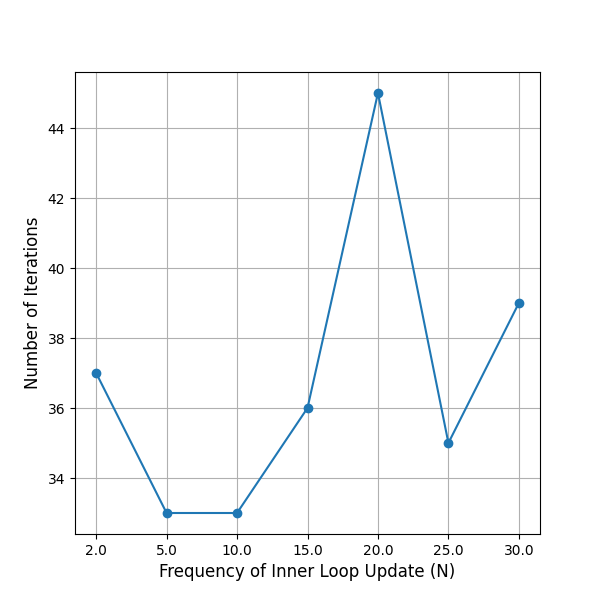
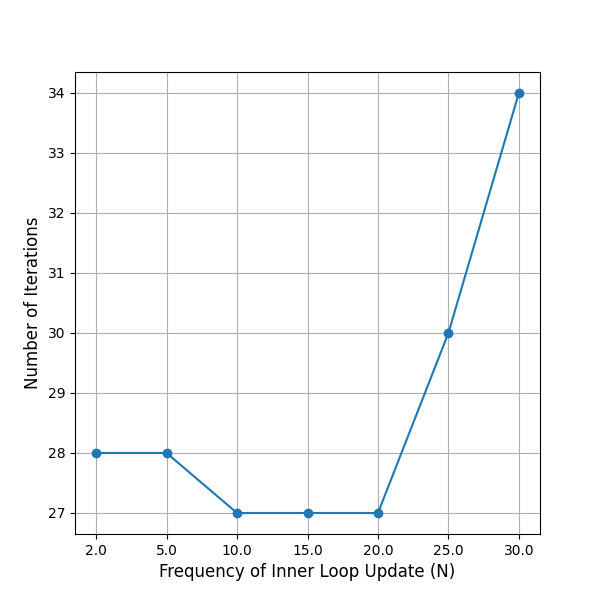
fixed the beta control methods to all optimize for market clearing error

diff --git a/ic/market.py b/ic/market.py
@@ -715,37 +715,39 @@ def run_market(initial_values, agent_settings, market_settings, bookkeeping, spa
         market_clearing.append(market_clearing_error)
 
         num_last_iterations = 20
+        threshold_decrease = 0.05
         if beta_adjustment_method == 'errorbased' and len(market_clearing) >= num_last_iterations:
             # here I am checking if the market is decreasing by 5% for the last n iterations
-            last_10_errors = market_clearing[-num_last_iterations:]  
-            reduction_rates = [(last_10_errors[i] - last_10_errors[i + 1]) / last_10_errors[i]
-                            for i in range(len(last_10_errors) - 1) if last_10_errors[i] != 0]  # Compute reduction rates
+            recent_errors = market_clearing[-num_last_iterations:]  
+            reduction_rates = [(recent_errors[i] - recent_errors[i + 1]) / recent_errors[i]
+                            for i in range(len(recent_errors) - 1) if recent_errors[i] != 0]  # Compute reduction rates
 
-            if all(rate < 0.05 for rate in reduction_rates):  
+            if all(rate < threshold_decrease for rate in reduction_rates):  
                 beta *= 1.2 # Increase beta
             
-        elif beta_adjustment_method == 'excessdemand' and len(overdemand) >= num_last_iterations:
-            # here is am checking if the excess demand is moving towards zero
-            last_10_demand = overdemand[-num_last_iterations:]  # Use signed excess demand
-            moving_towards_zero = np.all(abs(last_10_demand[i + 1]) < abs(last_10_demand[i]) for i in range(len(last_10_demand) - 1))
+        # elif beta_adjustment_method == 'excessdemand' and len(overdemand) >= num_last_iterations:
+        #     # here is am checking if the excess demand is moving towards zero
+        #     last_10_demand = overdemand[-num_last_iterations:]  # Use signed excess demand
+        #     moving_towards_zero = np.all(abs(last_10_demand[i + 1]) < abs(last_10_demand[i]) for i in range(len(last_10_demand) - 1))
 
-            if not moving_towards_zero:
-                beta *= 1.2
+        #     if not moving_towards_zero:
+        #         beta *= 1.2
 
         
-        elif beta_adjustment_method == 'normalizedexcessdemand' and len(overdemand) >= num_last_iterations:
-            recent_demand = np.array(overdemand[-num_last_iterations:]) 
-            demand_reduction = (recent_demand[:-1] - recent_demand[1:]) / (recent_demand[:-1] + 1e-6)  # Avoid division by zero
-            if np.mean(demand_reduction) < 0.05:  # If excess demand is not reducing by at least 5%
-                excess_demand_norm = np.linalg.norm(overdemand[-1]) / np.linalg.norm(supply)
-                beta *= 1 + 0.05 * excess_demand_norm  # Increase beta based on normalized excess demand
+        elif beta_adjustment_method == 'normalizederror' and len(market_clearing) >= num_last_iterations:
+            recent_errors = np.array(market_clearing[-num_last_iterations:]) 
+            error_reduction = [(recent_errors[i] - recent_errors[i+1]) / (recent_errors[i])
+                               for i in range(len(recent_errors) - 1) if recent_errors[i] != 0] 
+            if np.mean(error_reduction) < threshold_decrease:  
+                error_norm = np.linalg.norm(market_clearing[-1]) / np.linalg.norm(tolerance)
+                beta *= 1 + threshold_decrease * error_norm  
         
         elif beta_adjustment_method == 'pidcontrol' and len(market_clearing) >= num_last_iterations:
             recent_errors = np.array(market_clearing[-num_last_iterations:])
-            error_reduction = (recent_errors[:-1] - recent_errors[1:]) / (recent_errors[:-1] + 1e-6)  # Avoid division by zero
+            error_reduction = (recent_errors[:-1] - recent_errors[1:]) / (recent_errors[:-1] + 1e-6)  
             
             # Only adjust beta if error is not reducing significantly
-            if np.mean(error_reduction) < 0.05:  
+            if np.mean(error_reduction) < threshold_decrease:  
                 target_error = tolerance 
                 error_current = market_clearing[-1]
                 error_previous = market_clearing[-2]  
@@ -756,11 +758,9 @@ def run_market(initial_values, agent_settings, market_settings, bookkeeping, spa
                 error_integral = max(min(error_integral, 10 * target_error), -10 * target_error)  # Limit integral growth
 
                 error_derivative = error_current - error_previous
-
-                # Adaptive Scaling to Prevent Large Jumps
                 Kp = 0.1 / (1 + error_ratio)  
-                Ki = 0.01 / (1 + abs(error_integral))  # Reduce effect when integral is large
-                Kd = 0.05 / (1 + abs(error_derivative))  # Prevent aggressive derivative jumps
+                Ki = 0.01 / (1 + abs(error_integral)) 
+                Kd = 0.05 / (1 + abs(error_derivative)) 
 
                 beta_adjustment = Kp * error_current + Ki * error_integral + Kd * error_derivative
 
@@ -775,7 +775,7 @@ def run_market(initial_values, agent_settings, market_settings, bookkeeping, spa
             reduction_rates = [(last_20_errors[i] - last_20_errors[i + 1]) / (last_20_errors[i] + 1e-6)
                             for i in range(len(last_20_errors) - 1) if last_20_errors[i] != 0]
 
-            if all(rate < 0.05 for rate in reduction_rates):  
+            if all(rate < threshold_decrease for rate in reduction_rates):  
                 gamma = 0.1  
                 target_error = tolerance
                 error_current = market_clearing[-1]
@@ -791,7 +791,7 @@ def run_market(initial_values, agent_settings, market_settings, bookkeeping, spa
                 beta *= 1 + beta_adjustment  # Apply adjustment
 
 
-        beta = min(beta, 5000)  # Cap beta to prevent overflow
+        beta = min(beta, 5000)  # Max beta
         # logger.info(f"Beta: {beta}")
 
         iteration_snapshot = {

diff --git a/ic/run_configurations.py b/ic/run_configurations.py
@@ -7,12 +7,12 @@ BETA_values = [50] #, 100, 1000, 10000]
 dropout_good_valuation_values = [40]
 default_good_valuation_values = [1]
 price_default_good_values = [1]
-lambda_frequency_values = [30]
+lambda_frequency_values = [10]
 price_upper_bound_values = [3000]
-# beta_adjustment_methods = ["pidcontrol", "adjustedlearning", "excessdemand", "errorbased", "normalizedexcessdemand", "none"]
-beta_adjustment_methods = ["none"]
+beta_adjustment_methods = ["pidcontrol", "adjustedlearning", "errorbased", "normalizederror", "none"]
+# beta_adjustment_methods = ["none"]
 # num_agents_to_run = [2,5,10,15,20,30]
-num_agents_to_run = [80]
+num_agents_to_run = [40]
 tol_error_to_check = [0.1, 0.01, 0.001]
 alpha_values = [1]
 # alpha_values = [1.0, 0.5, 0.1, 5.0, 10.0]
@@ -28,7 +28,8 @@ main_script_path = os.path.join(os.path.dirname(__file__), 'main.py')
 
 
 # file_list = ["test_cases/toulouse_case_cap10_updated_20stepauction_15sectau.json"]
-file_list = ["test_cases/toulouse_case_cap7_updated_20.json"]
+# file_list = ["test_cases/toulouse_case_cap7_updated_20.json"]
+file_list = ["test_cases/toulouse_case_cap4_updated.json"]
 
 for file in file_list:
     for idx, (BETA, dropout_good_valuation, default_good_valuation, price_default_good, 
@@ -50,8 +51,8 @@ for file in file_list:
             "--price_default_good", str(price_default_good),
             "--lambda_frequency", str(lambda_frequency),
             "--price_upper_bound", str(price_upper_bound),
-            # "--num_agents_to_run", str(num_agents_to_run),
-            "--run_up_to_auction", str(1000),
+            "--num_agents_to_run", str(num_agents_to_run),
+            # "--run_up_to_auction", str(1000),
             "--save_pkl_files", "True",
             "--beta_adjustment_method", beta_adjustment_method,
             "--alpha", str(alpha),

diff --git a/ic/main.py b/ic/main.py
@@ -100,9 +100,9 @@ parser.add_argument("--tol_error_to_check", nargs="+", type=float, default=None,
 parser.add_argument(
     "--beta_adjustment_method",
     type=str,
-    choices=["none", "errorbased", "excessdemand", "normalizedexcessdemand", "pidcontrol", "adjustedlearning"],
+    choices=["none", "errorbased", "excessdemand", "normalizederror", "pidcontrol", "adjustedlearning"],
     default="none",
-    help="Method to adjust beta dynamically. Options: none, errorbased, excessdemand, normalizedexcessdemand, pidcontrol, adjustedlearning."
+    help="Method to adjust beta dynamically. Options: none, errorbased, excessdemand, normalizederror, pidcontrol, adjustedlearning."
 )
 parser.add_argument("--alpha", type=float, default=1, help="Alpha value for tolerance.")
 args = parser.parse_args()
